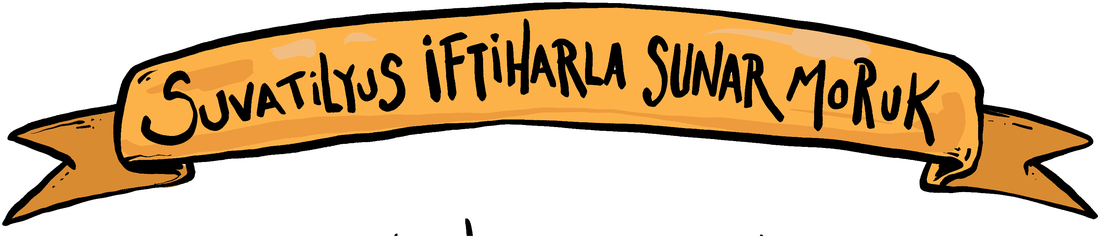
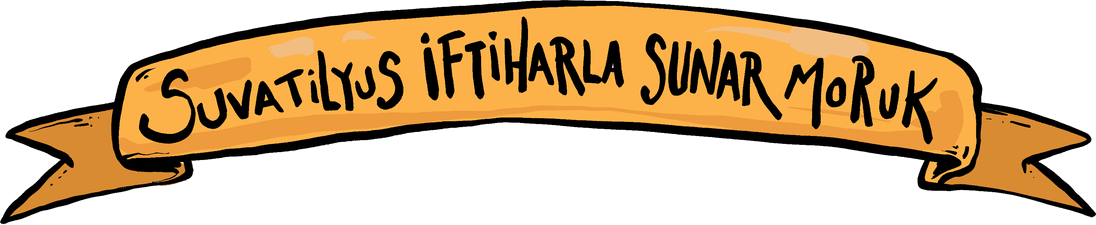
Site güncellendi (10 dosya)

diff --git a/ar/index.html b/ar/index.html
@@ -20,7 +20,14 @@ html,body{margin:0;height:100%;background:#111;color:#fff;font-family:"suat-hand
 #giris{justify-content:flex-start;overflow-y:auto;-webkit-overflow-scrolling:touch;padding-top:calc(env(safe-area-inset-top) + 18px);padding-bottom:40px}
 .cz{position:relative;display:block}.cz>img{display:block;width:100%;height:auto}.cz>img.c{position:absolute;inset:0;height:100%}
 .ar-banner{width:86vw;max-width:440px;height:auto}.ar-yazi{width:76vw;max-width:380px;height:auto}
-.ar-baloncuk{width:52vw;max-width:260px;height:auto;margin-top:6px}
+.ar-baloncuk{width:72vw;max-width:340px;height:auto;margin-top:10px}
+.uyari{font-size:3.6vw!important;max-width:340px!important;color:#666;text-transform:lowercase;line-height:1.5!important}
+.uyari .kor{text-transform:none}
+.giris-btn{background:none;border:0;padding:0;margin:6px 0 4px;cursor:pointer;width:46vw;max-width:230px;transition:transform .15s}
+.giris-btn img{display:block;width:100%;height:auto}
+.giris-btn:active{transform:scale(.96)}
+.giris-btn:disabled{opacity:.45;transform:scale(.97)}
+@media(min-width:600px){.uyari{font-size:15px!important}}
 .alt-geri{display:block;width:30vw;max-width:150px;margin-top:10px}.alt-geri img{width:100%;height:auto;display:block}
 .kat h1{font-family:"suat-skinny",sans-serif;font-weight:400;font-size:13vw;max-width:520px;margin:0;line-height:1;letter-spacing:.02em}
 .kat p{margin:0;font-size:5vw;max-width:420px;line-height:1.25}
@@ -50,7 +57,7 @@ html,body{margin:0;height:100%;background:#111;color:#fff;font-family:"suat-hand
 <script>
 /* eski kopya koruması (ortak.js'deki gibi): tarayıcı bu sayfanın eski halini tuttuysa bir kere yenile.
    SURUM her güncellemede surum.txt ile aynı değere çekilir. */
-window.SURUM = '2611200506';
+window.SURUM = '2611200546';
 fetch('../surum.txt?t=' + Date.now(), {cache: 'no-store'}).then(r => r.ok ? r.text() : '').then(t => {
   t = t.trim(); if (!t || t === window.SURUM) return;
   let son = 0; try { son = +sessionStorage.getItem('suat-yenile') || 0; } catch (e) {}
@@ -74,10 +81,10 @@ fetch('../surum.txt?t=' + Date.now(), {cache: 'no-store'}).then(r => r.ok ? r.te
   <a class="amb cz" href="../" aria-label="Ana sayfa"><img class="c" src="../img/ui/amblem-c.png" alt=""><img src="../img/ui/amblem.png" alt="suatilyus — ana sayfa"></a>
   <img class="ar-banner" src="../img/ui/ar-banner.png" alt="suatilyus iftiharla sunar moruk" width="1100" height="238">
   <img class="ar-yazi" src="../img/ui/ar-yazi.png" alt="Bazı basılı işleri canlandırır…" width="1000" height="224">
-  <p class="kucuk">Başla'ya bas, kameraya izin ver, telefonu çizime tut.</p>
-  <p class="kucuk" id="izinNot" hidden>Safari her seferinde kamera izni sormasın diye: adres çubuğundaki <b>aA</b> → Web Sitesi Ayarları → Kamera → <b>İzin Ver</b>.</p>
-  <button class="basla" id="basla" type="button">BAŞLA</button>
   <img class="ar-baloncuk" src="../img/ui/ar-baloncuk.png" alt="Alttaki çizimlerden elinde yoksa üstüne tıkla, başka telefonla canlandır" width="700" height="578">
+  <p class="uyari">girişe bas, kameraya izin ver, telefonu çizime tut.</p>
+  <p class="uyari" id="izinNot" hidden>safari her seferinde kamera izni sormasın diye: adres çubuğundaki <span class="kor">aA</span> → web sitesi ayarları → kamera → izin ver.</p>
+  <button class="giris-btn" id="basla" type="button" aria-label="Giriş: kamerayı aç"><img src="../img/ui/giris-kapi.png" alt="" width="700" height="443"></button>
   <div class="hedefler">
     <a data-ad="pixel" href="hedef/pixel.jpg" target="_blank" rel="noopener"><img src="hedef/pixel.jpg" alt="Çizim 1"></a>
     <a data-ad="gece" href="hedef/gece.jpg" target="_blank" rel="noopener"><img src="hedef/gece.jpg" alt="Çizim 2"></a>
@@ -167,7 +174,7 @@ const katlar = [];                                 // every Kat Kat drawing
 const katim = () => katlar.find(k => k.elde()) || katlar.find(k => k.gor()) || null;   // the one ELİNE AL / gestures act on
 
 $('basla').onclick = async () => {
-  $('basla').disabled = true; $('basla').textContent = 'AÇILIYOR…';
+  $('basla').disabled = true;
   for (const v of seslenen()) { try { await v.play(); v.pause(); v.currentTime = 0; } catch (e) {} }
   try {
     if (!mind) kur();
@@ -183,7 +190,7 @@ $('basla').onclick = async () => {
       ? 'Kameraya izin verilmedi. Adres çubuğundaki aA → Web Sitesi Ayarları → Kamera → İzin Ver, sonra tekrar dene.'
       : 'Kamera açılamadı. Safari ya da Chrome ile açtığından emin ol.';
   }
-  $('basla').disabled = false; $('basla').textContent = 'BAŞLA';
+  $('basla').disabled = false;
 };
 
 $('cik').onclick = () => {

diff --git a/index.html b/index.html
@@ -18,7 +18,7 @@
 <link rel="preconnect" href="https://fonts.googleapis.com">
 <link rel="preconnect" href="https://fonts.gstatic.com" crossorigin>
 <link href="https://fonts.googleapis.com/css2?family=Patrick+Hand&display=swap" rel="stylesheet">
-<link rel="stylesheet" href="ortak.css?v=2611200506">
+<link rel="stylesheet" href="ortak.css?v=2611200546">
 <style>
 :root{--pink:#fd225a;--ink:#111}
 *{box-sizing:border-box;margin:0;padding:0}
@@ -104,7 +104,7 @@ img{display:block;max-width:100%;height:auto;user-select:none;-webkit-user-drag:
   <div class="divider divider2 cz" id="uygulamalar"><img class="c" src="img/divider-c.png" alt=""><img src="img/divider.png" alt="" width="1062" height="54"></div>
   <img class="soon" src="img/ui/cok-yakinda-app.png" alt="Çok yakında: Naber Moruk — suatilyus app!" width="455" height="458">
 </main>
-<script src="ortak.js?v=2611200506"></script>
+<script src="ortak.js?v=2611200546"></script>
 <script>
 /* home buttons come from veri/site.json (control panel) */
 (function koseTasi(n){n=n||0;const k=document.querySelector('.kose'),h=document.querySelector('.header');if(k&&h){h.appendChild(k);}else if(n<100)setTimeout(()=>koseTasi(n+1),50);})();

diff --git a/404.html b/404.html
@@ -6,7 +6,7 @@
 <title>404 — suatilyus</title>
 <meta name="robots" content="noindex">
 <link rel="icon" href="/img/icon-192.png">
-<link rel="stylesheet" href="/ortak.css?v=2611200506">
+<link rel="stylesheet" href="/ortak.css?v=2611200546">
 <style>
 *{box-sizing:border-box;margin:0;padding:0}
 body{background:#fff;min-height:100vh;display:flex;align-items:center;justify-content:center}
@@ -23,6 +23,6 @@ body{background:#fff;min-height:100vh;display:flex;align-items:center;justify-co
   <h1 class="e404 cz"><img class="c" src="/img/ui/404-c.png" alt=""><img src="/img/ui/404.png" alt="404 — sayfası bulunamadı. Diğer 403'ü bulduk, bi bu kayıp." width="600" height="300"></h1>
   <a class="home cz lit" href="/"><img class="c" src="/img/ui/anasayfa-c.png" alt=""><img src="/img/ui/anasayfa.png" alt="Ana sayfa" width="370" height="105"></a>
 </main>
-<script src="/ortak.js?v=2611200506"></script>
+<script src="/ortak.js?v=2611200546"></script>
 </body>
 </html>

diff --git a/illustrasyon/index.html b/illustrasyon/index.html
@@ -11,7 +11,7 @@
 <link rel="preconnect" href="https://fonts.googleapis.com">
 <link rel="preconnect" href="https://fonts.gstatic.com" crossorigin>
 <link href="https://fonts.googleapis.com/css2?family=Patrick+Hand&display=swap" rel="stylesheet">
-<link rel="stylesheet" href="../ortak.css?v=2611200506">
+<link rel="stylesheet" href="../ortak.css?v=2611200546">
 <style>
 :root{--ink:#111}
 *{box-sizing:border-box;margin:0;padding:0}
@@ -60,7 +60,7 @@ h1{font-size:11cqw;font-weight:400;letter-spacing:.04em;margin-top:5cqw;line-hei
   <div class="grid" id="grid"></div>
   <a class="alt-geri" href="../index.html" aria-label="Geri dön"><img src="../img/ui/geri-tabela.png" alt="Geri" width="800" height="536"></a>
 </main>
-<script src="../ortak.js?v=2611200506"></script>
+<script src="../ortak.js?v=2611200546"></script>
 
 <div class="view" id="view" role="dialog" aria-modal="true" aria-label="Çizim">
   <img class="big" id="big" alt="">

diff --git a/indir/index.html b/indir/index.html
@@ -11,7 +11,7 @@
 <link rel="preconnect" href="https://fonts.googleapis.com">
 <link rel="preconnect" href="https://fonts.gstatic.com" crossorigin>
 <link href="https://fonts.googleapis.com/css2?family=Patrick+Hand&display=swap" rel="stylesheet">
-<link rel="stylesheet" href="../ortak.css?v=2611200506">
+<link rel="stylesheet" href="../ortak.css?v=2611200546">
 <style>
 :root{--ink:#111}
 *{box-sizing:border-box;margin:0;padding:0}
@@ -51,7 +51,7 @@ h1{font-size:11cqw;font-weight:400;letter-spacing:.04em;margin-top:5cqw;line-hei
   <div id="list" style="width:100%"></div>
   <a class="alt-geri" href="../index.html" aria-label="Geri dön"><img src="../img/ui/geri-tabela.png" alt="Geri" width="800" height="536"></a>
 </main>
-<script src="../ortak.js?v=2611200506"></script>
+<script src="../ortak.js?v=2611200546"></script>
 <script>
 {
 const E=suat.esc, ext=f=>(f.split('.').pop()||'').toUpperCase().slice(0,5);

diff --git a/panel/index.html b/panel/index.html
@@ -9,7 +9,7 @@
 <link rel="preconnect" href="https://fonts.googleapis.com">
 <link rel="preconnect" href="https://fonts.gstatic.com" crossorigin>
 <link href="https://fonts.googleapis.com/css2?family=Patrick+Hand&display=swap" rel="stylesheet">
-<link rel="stylesheet" href="../ortak.css?v=2611200506">
+<link rel="stylesheet" href="../ortak.css?v=2611200546">
 <style>
 :root{--ink:#111;--mut:#666}
 *{box-sizing:border-box;margin:0;padding:0}
@@ -261,7 +261,7 @@ code{background:#f2f2f2;padding:1px 6px;border-radius:5px;font-size:15px;font-fa
     <button class="hit l" id="errClose" aria-label="Geri dön"></button><button class="hit r" id="errReload" aria-label="Yenile"></button></div>
 </div>
 
-<script src="../ortak.js?v=2611200506"></script>
+<script src="../ortak.js?v=2611200546"></script>
 <script src="https://cdnjs.cloudflare.com/ajax/libs/jszip/3.10.1/jszip.min.js"></script>
 <script>
 {

diff --git a/uygulamalar/srf/index.html b/uygulamalar/srf/index.html
@@ -9,7 +9,7 @@
 <link rel="apple-touch-icon" href="../../img/apple-touch-icon.png">
 <link rel="preconnect" href="https://fonts.googleapis.com">
 <link href="https://fonts.googleapis.com/css2?family=Amatic+SC:wght@700&family=Patrick+Hand&display=swap" rel="stylesheet">
-<link rel="stylesheet" href="../../ortak.css?v=2611200506">
+<link rel="stylesheet" href="../../ortak.css?v=2611200546">
 <style>
 /* VOICE: suatilyus'un elle çizdiği arayüz eskizi, çalışan hali
    IDEA: kâğıttaki iki uzun çerçeve (Eskiz | Referans) gerçek araca dönüşüyor
@@ -608,6 +608,6 @@ ro.observe(c2);ro.observe(c3);
 size2();size3();S.body='kadin';applyPreset('ayakta');setBody('kadin');markStyle('normal');markView();
 })();
 </script>
-<script src="../../ortak.js?v=2611200506"></script>
+<script src="../../ortak.js?v=2611200546"></script>
 </body>
 </html>

diff --git a/uygulamalar/index.html b/uygulamalar/index.html
@@ -11,7 +11,7 @@
 <link rel="preconnect" href="https://fonts.googleapis.com">
 <link rel="preconnect" href="https://fonts.gstatic.com" crossorigin>
 <link href="https://fonts.googleapis.com/css2?family=Patrick+Hand&display=swap" rel="stylesheet">
-<link rel="stylesheet" href="../ortak.css?v=2611200506">
+<link rel="stylesheet" href="../ortak.css?v=2611200546">
 <style>
 :root{--ink:#111}
 *{box-sizing:border-box;margin:0;padding:0}
@@ -75,6 +75,6 @@ h1{font-size:11cqw;font-weight:400;letter-spacing:.04em;margin-top:5cqw;line-hei
   </div>
   <a class="alt-geri" href="../index.html" aria-label="Geri dön"><img src="../img/ui/geri-tabela.png" alt="Geri" width="800" height="536"></a>
 </main>
-<script src="../ortak.js?v=2611200506"></script>
+<script src="../ortak.js?v=2611200546"></script>
 </body>
 </html>
